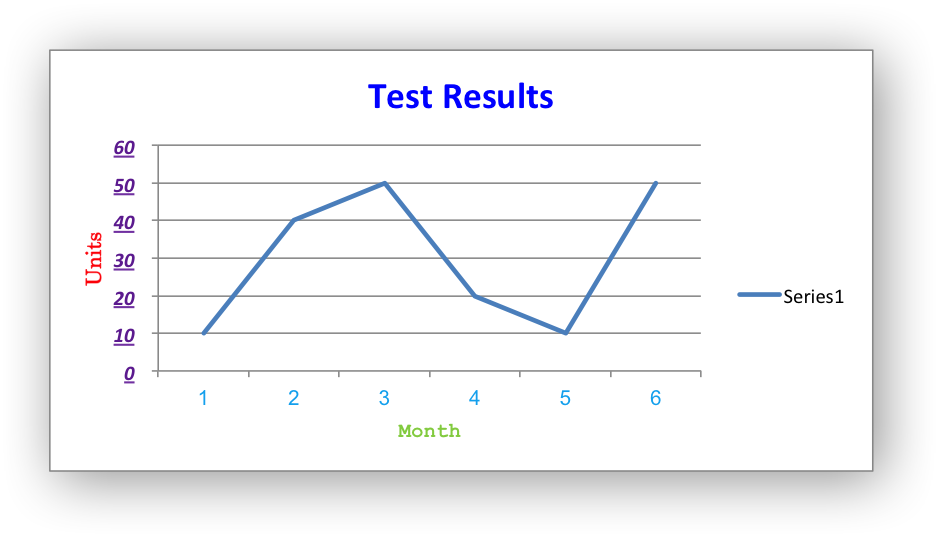
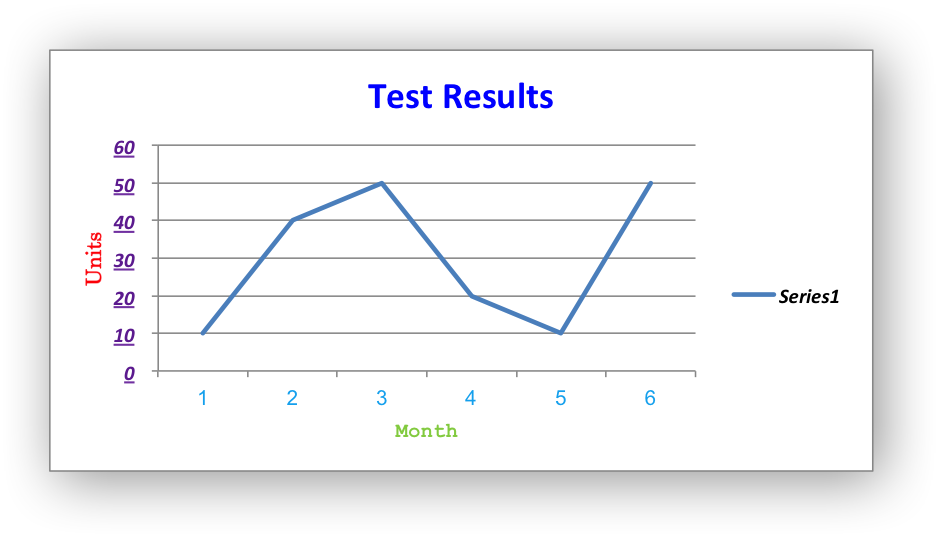
Added chart legend font properties.
Closes #57.

diff --git a/xlsxwriter/chart.py b/xlsxwriter/chart.py
@@ -46,6 +46,8 @@ class Chart(xmlwriter.XMLwriter):
         self.cat_has_num_fmt = 0
         self.requires_category = 0
         self.legend_position = 'right'
+        self.legend_delete_series = None
+        self.legend_font = None
         self.cat_axis_position = 'b'
         self.val_axis_position = 'l'
         self.formula_ids = {}
@@ -79,7 +81,6 @@ class Chart(xmlwriter.XMLwriter):
         self.drop_lines = None
         self.hi_low_lines = None
         self.up_down_bars = None
-        self.legend_delete_series = None
         self.smooth_allowed = False
 
         self._set_default_properties()
@@ -285,6 +286,7 @@ class Chart(xmlwriter.XMLwriter):
         """
         self.legend_position = options.get('position', 'right')
         self.legend_delete_series = options.get('delete_series')
+        self.legend_font = self._convert_font_args(options.get('font'))
 
     def set_plotarea(self, options):
         """
@@ -597,8 +599,8 @@ class Chart(xmlwriter.XMLwriter):
             if axis['position_axis'] == 'on_tick':
                 axis['position_axis'] = 'midCat'
             elif axis['position_axis'] == 'between':
-               # Doesn't need to be modified.
-               pass
+                # Doesn't need to be modified.
+                pass
             else:
                 # Otherwise use the default value.
                 axis['position_axis']
@@ -1064,7 +1066,9 @@ class Chart(xmlwriter.XMLwriter):
         if font['underline'] is not None:
             attributes.append(('u', 'sng'))
 
-        attributes.append(('baseline', font['baseline']))
+        # Turn off baseline for fonts that don't use it.
+        if font['baseline'] != -1:
+            attributes.append(('baseline', font['baseline']))
 
         return attributes
 
@@ -2077,6 +2081,7 @@ class Chart(xmlwriter.XMLwriter):
     def _write_legend(self):
         # Write the <c:legend> element.
         position = self.legend_position
+        font = self.legend_font
         delete_series = []
         overlay = 0
 
@@ -2109,12 +2114,14 @@ class Chart(xmlwriter.XMLwriter):
 
         # Remove series labels from the legend.
         for index in (delete_series):
-
             # Write the c:legendEntry element.
             self._write_legend_entry(index)
 
         # Write the c:layout element.
         self._write_layout()
+
+        if font:
+            self._write_tx_pr(None, font)
 
         # Write the c:overlay element.
         if overlay:

diff --git a/xlsxwriter/test/comparison/test_chart_font08.py b/xlsxwriter/test/comparison/test_chart_font08.py
@@ -1,0 +1,82 @@
+###############################################################################
+#
+# Tests for XlsxWriter.
+#
+# Copyright (c), 2013, John McNamara, jmcnamara@cpan.org
+#
+
+import unittest
+import os
+from ...workbook import Workbook
+from ..helperfunctions import _compare_xlsx_files
+
+
+class TestCompareXLSXFiles(unittest.TestCase):
+    """
+    Test file created by XlsxWriter against a file created by Excel.
+
+    """
+
+    def setUp(self):
+        self.maxDiff = None
+
+        filename = 'chart_font08.xlsx'
+
+        test_dir = 'xlsxwriter/test/comparison/'
+        self.got_filename = test_dir + '_test_' + filename
+        self.exp_filename = test_dir + 'xlsx_files/' + filename
+
+        self.ignore_files = []
+        self.ignore_elements = {}
+
+    def test_create_file(self):
+        """Test the creation of a simple XlsxWriter file."""
+        filename = self.got_filename
+
+        ####################################################
+
+        workbook = Workbook(filename)
+
+        worksheet = workbook.add_worksheet()
+        chart = workbook.add_chart({'type': 'line'})
+
+        chart.axis_ids = [69199744, 69214976]
+
+        data = [
+            [1, 2, 3, 4, 5],
+            [2, 4, 6, 8, 10],
+            [3, 6, 9, 12, 15],
+
+        ]
+
+        worksheet.write_column('A1', data[0])
+        worksheet.write_column('B1', data[1])
+        worksheet.write_column('C1', data[2])
+
+        chart.add_series({'values': '=Sheet1!$A$1:$A$5'})
+        chart.add_series({'values': '=Sheet1!$B$1:$B$5'})
+        chart.add_series({'values': '=Sheet1!$C$1:$C$5'})
+
+        chart.set_legend({'font': {'bold': 1, 'italic': 1, 'baseline': -1}})
+
+        worksheet.insert_chart('E9', chart)
+
+        workbook.close()
+
+        ####################################################
+
+        got, exp = _compare_xlsx_files(self.got_filename,
+                                       self.exp_filename,
+                                       self.ignore_files,
+                                       self.ignore_elements)
+
+        self.assertEqual(got, exp)
+
+    def tearDown(self):
+        # Cleanup.
+        if os.path.exists(self.got_filename):
+            os.remove(self.got_filename)
+
+
+if __name__ == '__main__':
+    unittest.main()

diff --git a/xlsxwriter/test/comparison/test_chart_font07.py b/xlsxwriter/test/comparison/test_chart_font07.py
@@ -1,0 +1,82 @@
+###############################################################################
+#
+# Tests for XlsxWriter.
+#
+# Copyright (c), 2013, John McNamara, jmcnamara@cpan.org
+#
+
+import unittest
+import os
+from ...workbook import Workbook
+from ..helperfunctions import _compare_xlsx_files
+
+
+class TestCompareXLSXFiles(unittest.TestCase):
+    """
+    Test file created by XlsxWriter against a file created by Excel.
+
+    """
+
+    def setUp(self):
+        self.maxDiff = None
+
+        filename = 'chart_font07.xlsx'
+
+        test_dir = 'xlsxwriter/test/comparison/'
+        self.got_filename = test_dir + '_test_' + filename
+        self.exp_filename = test_dir + 'xlsx_files/' + filename
+
+        self.ignore_files = []
+        self.ignore_elements = {}
+
+    def test_create_file(self):
+        """Test the creation of a simple XlsxWriter file."""
+        filename = self.got_filename
+
+        ####################################################
+
+        workbook = Workbook(filename)
+
+        worksheet = workbook.add_worksheet()
+        chart = workbook.add_chart({'type': 'line'})
+
+        chart.axis_ids = [69215744, 69217280]
+
+        data = [
+            [1, 2, 3, 4, 5],
+            [2, 4, 6, 8, 10],
+            [3, 6, 9, 12, 15],
+
+        ]
+
+        worksheet.write_column('A1', data[0])
+        worksheet.write_column('B1', data[1])
+        worksheet.write_column('C1', data[2])
+
+        chart.add_series({'values': '=Sheet1!$A$1:$A$5'})
+        chart.add_series({'values': '=Sheet1!$B$1:$B$5'})
+        chart.add_series({'values': '=Sheet1!$C$1:$C$5'})
+
+        chart.set_legend({'font': {'size': 9, 'baseline': -1}})
+
+        worksheet.insert_chart('E9', chart)
+
+        workbook.close()
+
+        ####################################################
+
+        got, exp = _compare_xlsx_files(self.got_filename,
+                                       self.exp_filename,
+                                       self.ignore_files,
+                                       self.ignore_elements)
+
+        self.assertEqual(got, exp)
+
+    def tearDown(self):
+        # Cleanup.
+        if os.path.exists(self.got_filename):
+            os.remove(self.got_filename)
+
+
+if __name__ == '__main__':
+    unittest.main()

diff --git a/dev/docs/source/chart.rst b/dev/docs/source/chart.rst
@@ -547,6 +547,7 @@ example it can be used to turn off the default chart legend::
 The options that can be set are::
 
     position
+    font
     delete_series
 
 
@@ -566,6 +567,12 @@ The options that can be set are::
     right
     overlay_left
     overlay_right
+
+* ``font``: Set the font properties of the chart legend::
+
+    chart.set_legend({'font': {'size': 9, 'bold': 1}})
+
+  See the :ref:`chart_fonts` section for more details on font properties.
 
 * ``delete_series``: This allows you to remove one or more series from the
   the legend (the series will still display on the chart). This property takes

diff --git a/dev/docs/source/working_with_charts.rst b/dev/docs/source/working_with_charts.rst
@@ -798,6 +798,8 @@ Here is an example of Font formatting in a Chart program::
         },
     })
 
+    chart.set_legend({'font': {'bold': 1, 'italic': 1}})
+
 .. image:: _images/chart_font1.png
    :scale: 75 %
 
